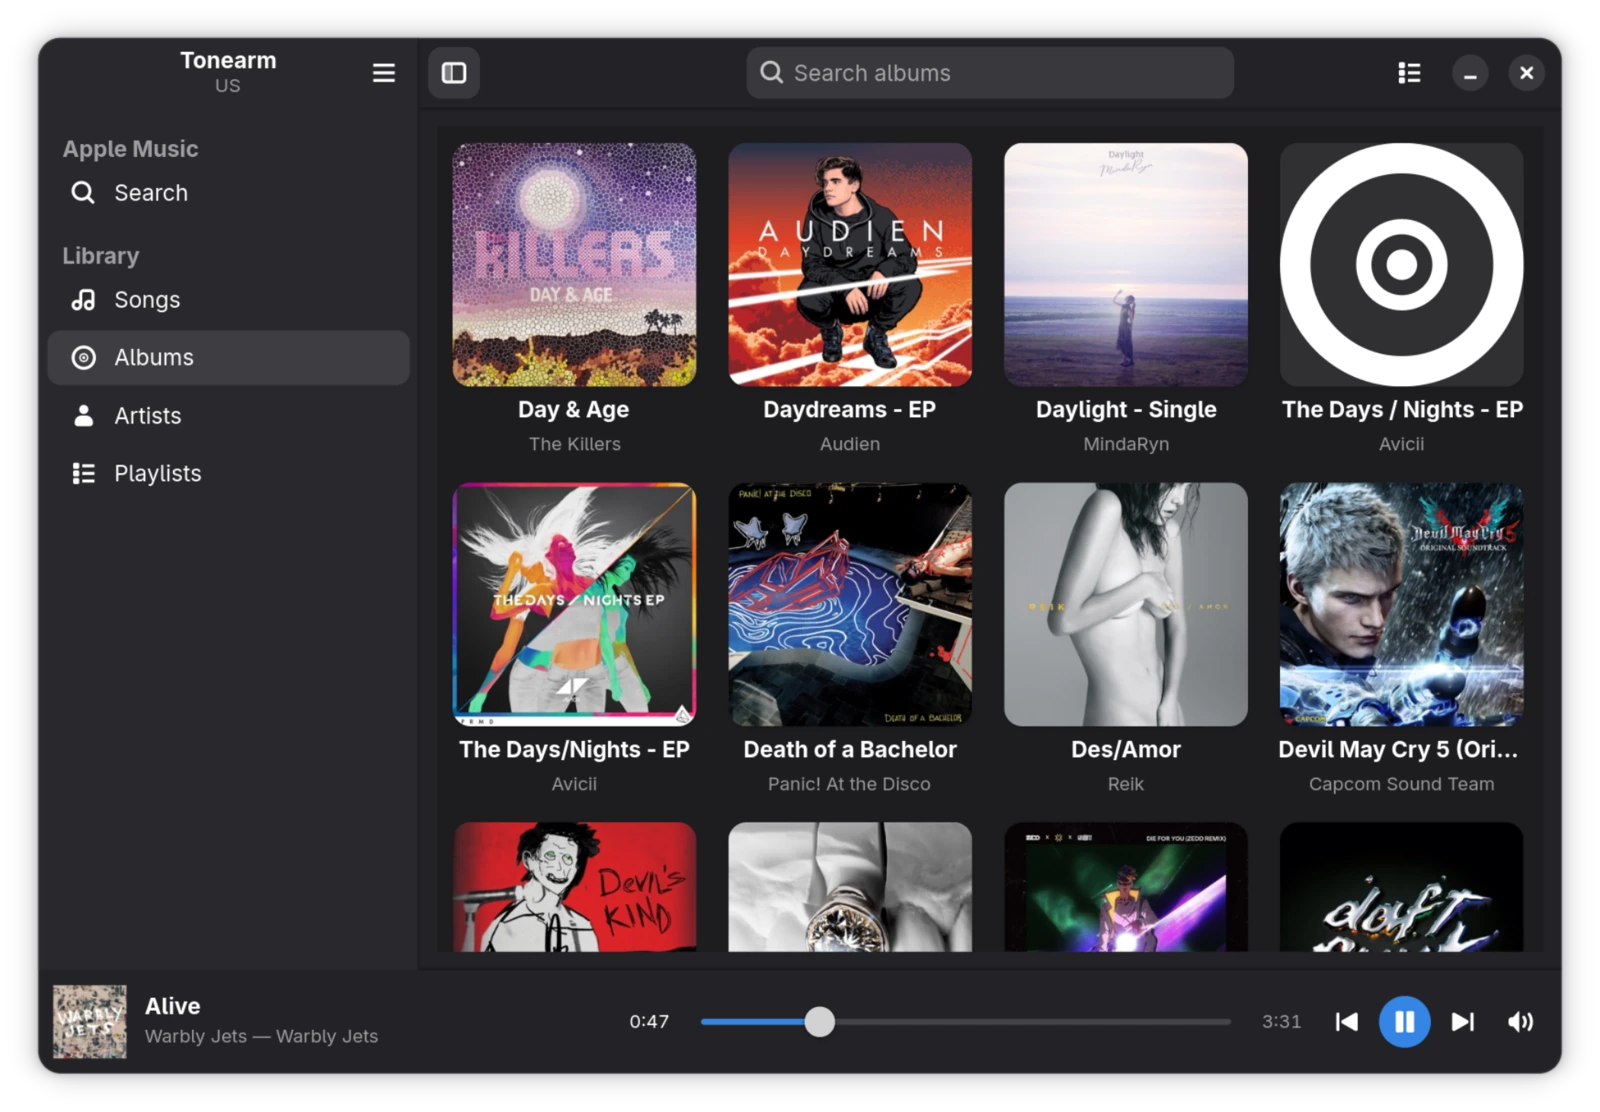
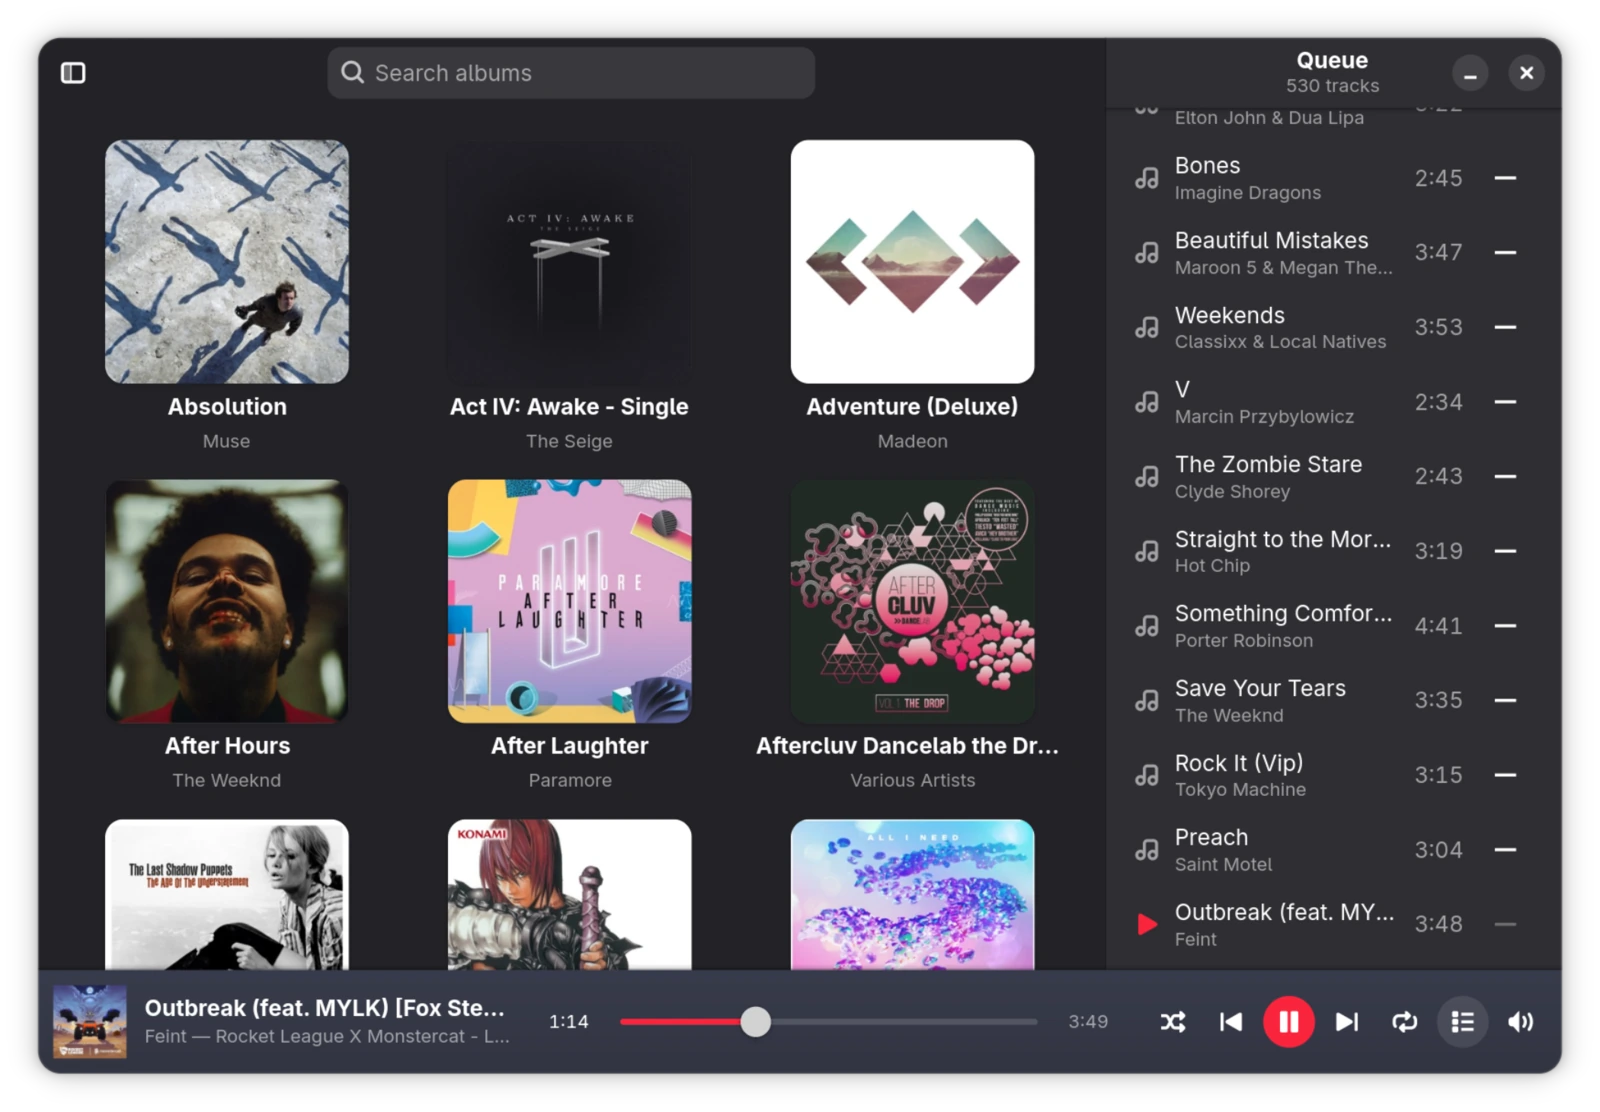
docs: refresh the screenshots
The four in the README predated the accent colour, the tinted bar, the
row menus, the per-section reload and the Play/Shuffle pair on detail
pages — everything a returning reader would actually notice.

Renamed and processed from the new set, and the set covers a different
spread than before: a list, a search, a grid with the queue open, and a
detail page. The old pair of albums-and-playlists grids showed the same
idea twice; a detail page had never been shown at all, despite being
where you play an album from.

Format by content, as before: lossless for the three that are mostly UI
text, lossy q92 for the album grid, where lossless cost 502KB against
138KB for one screenshot and the difference is album art nobody will
inspect. 580KB for the folder.

Also notes in the screenshot conventions that a shot which could have
been taken three versions ago is a wasted one — that is how these came
to be stale.

diff --git a/README.md b/README.md
@@ -19,8 +19,9 @@ GNOME search, and MPRIS that works in both directions.
 
 The web engine is still there. You just never see it.
 
-![Tonearm showing a library of songs, with the playing track marked and the Now
-Playing bar along the bottom](docs/screenshots/library.webp)
+![Tonearm showing a library of songs: the playing track marked in the accent
+colour, a menu button on every row, and the Now Playing bar along the
+bottom](docs/screenshots/library.webp)
 
 ## What it does
 
@@ -34,21 +35,23 @@ the way it was mastered to. This is measured, not hoped for — see
 playlists as grids. Type-to-find filtering on all four. Artist portraits come
 from Apple's catalogue, and covers are cached to disk as they scroll into view.
 
-![The Albums grid, covers filling the window](docs/screenshots/albums.webp)
+![The Albums grid with the queue sidebar open beside it, 530 tracks deep and
+scrolled to the one playing](docs/screenshots/albums.webp)
 
 **The whole catalogue.** Search Apple Music, paginated as you scroll. Results
 mix artists and albums above the songs, and either one opens a page you can play
 from and drill through — artist → album → track.
 
-![A catalogue search for Foo Fighters: artists and albums above the songs, each
+![A catalogue search for The Beatles: artists and albums above the songs, each
 with a chevron into its own page](docs/screenshots/search.webp)
+
+![A playlist page: cover, track count, Play and Shuffle, and the tracks
+below](docs/screenshots/playlist.webp)
 
 **A queue you can see.** A sidebar rather than a modal, opening on the track
 that is playing. Jump to any track, remove any track, without disturbing
-playback.
-
-![The Playlists grid with the queue sidebar open beside it, 530 tracks deep and
-scrolled to the one playing](docs/screenshots/queue.webp)
+playback. Right-click any row — or use its menu button — to play it next, add
+it to the queue, save it to your library or favourite it.
 
 **MPRIS, properly.** `org.mpris.MediaPlayer2.Tonearm`, bidirectional. The GNOME
 Shell applet and the lock screen show correct metadata and artwork, and their

diff --git a/docs/screenshots/README.md b/docs/screenshots/README.md
@@ -20,10 +20,10 @@ rsvg-convert -w 128 -h 128 \
 
 | File | Shows |
 | --- | --- |
-| `library.webp` | Songs — the playing track marked, bar active |
-| `albums.webp` | The Albums grid |
+| `library.webp` | Songs — playing track marked, row menus, sidebar reload |
 | `search.webp` | A catalogue search: artists and albums above songs |
-| `queue.webp` | Playlists, with the queue sidebar open |
+| `albums.webp` | The Albums grid with the queue sidebar open |
+| `playlist.webp` | A playlist page: cover, Play and Shuffle, tracks |
 
 ## Taking them
 
@@ -36,6 +36,9 @@ rsvg-convert -w 128 -h 128 \
   bar reading "Nothing playing" undersells every screenshot it appears in, and a
   different track in each one reads as four unrelated apps.
 - Avoid a half-loaded state: no spinners, no placeholder covers.
+- Show what is *new*. The accent colour, the tinted Now Playing bar and the row
+  menus are the things a returning reader will notice; a shot that could have
+  been taken three versions ago is a wasted one.
 
 ## Processing
 
